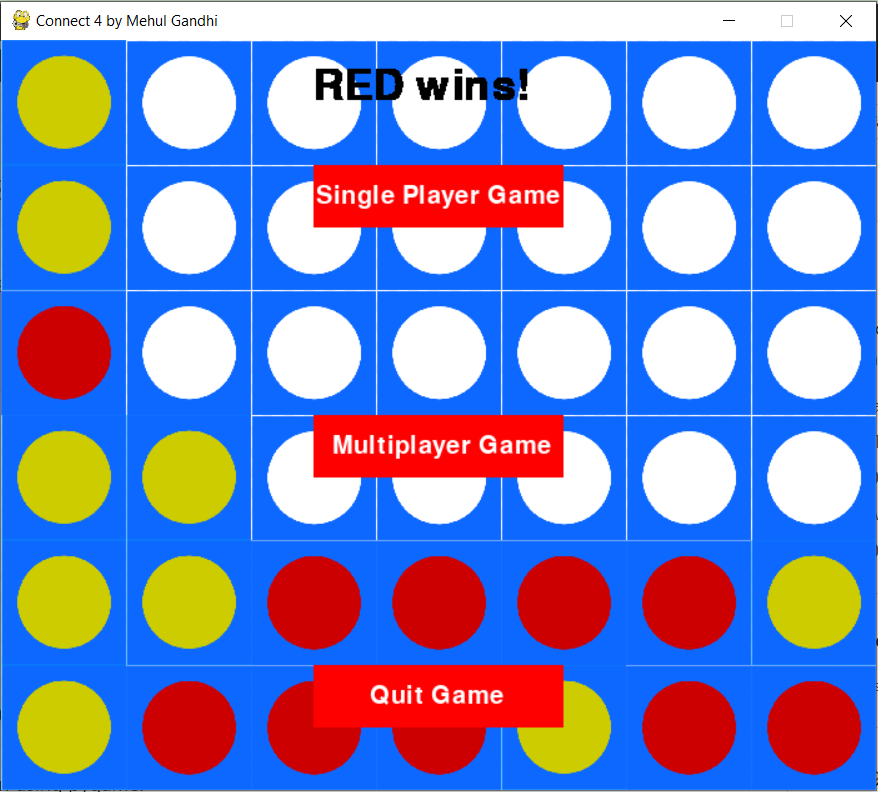
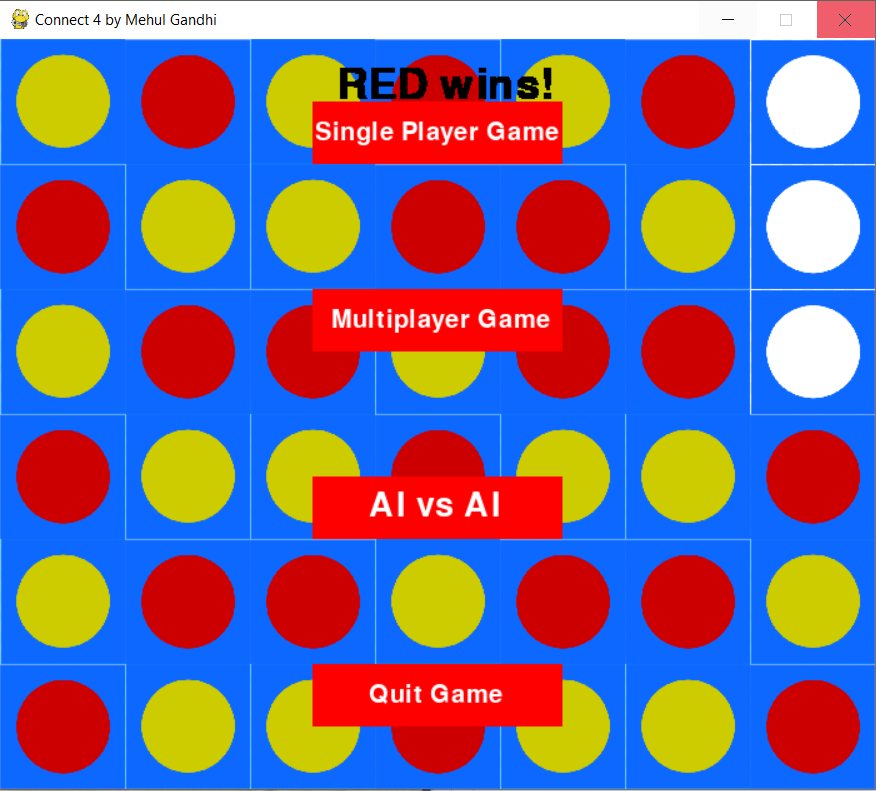
Add files via upload

diff --git a/main.py b/main.py
@@ -34,9 +34,10 @@ def main_menu():
 
         mx, my = pygame.mouse.get_pos()
 
-        button_1 = pygame.Rect(250, 100, 200, 50)  # AI
-        button_2 = pygame.Rect(250, 300, 200, 50)  # Multiplayer
-        button_3 = pygame.Rect(250, 500, 200, 50)  # QUIT
+        button_1 = pygame.Rect(250, 50, 200, 50)  # AI
+        button_2 = pygame.Rect(250, 200, 200, 50)  # Multiplayer
+        button_3 = pygame.Rect(250, 350, 200, 50)  # AI vs AI
+        button_4 = pygame.Rect(250, 500, 200, 50)  # QUIT
 
         if button_1.collidepoint((mx, my)):
             if click:
@@ -45,17 +46,21 @@ def main_menu():
                 break
         elif button_2.collidepoint((mx, my)):
             if click:
-                main()
                 click = False
+                main()
                 break
         elif button_3.collidepoint((mx, my)):
+            if click:
+                click = False
+                ai_against_ai()
+                break
+        elif button_4.collidepoint((mx, my)):
             if click:
                 click = False
                 pygame.quit()
                 break
         else:
             click = False
-
         for event in pygame.event.get():
             if event.type == QUIT:
                 pygame.quit()
@@ -63,10 +68,12 @@ def main_menu():
                 if event.button == 1:
                     click = True
         pygame.draw.rect(SCREEN, (255, 0, 0), button_1)
-        draw_text("Single Player Game", 30, (255, 255, 255), SCREEN, 252, 115)
+        draw_text("Single Player Game", 30, (255, 255, 255), SCREEN, 252, 65)
         pygame.draw.rect(SCREEN, (255, 0, 0), button_2)
-        draw_text("Multiplayer Game", 30, (255, 255, 255), SCREEN, 265, 315)
+        draw_text("Multiplayer Game", 30, (255, 255, 255), SCREEN, 265, 215)
         pygame.draw.rect(SCREEN, (255, 0, 0), button_3)
+        draw_text("AI vs AI", 40, (255, 255, 255), SCREEN, 295, 360)
+        pygame.draw.rect(SCREEN, (255, 0, 0), button_4)
         draw_text("Quit Game", 30, (255, 255, 255), SCREEN, 295, 515)
         pygame.display.update()
         clock.tick(FPS)
@@ -83,14 +90,17 @@ def play_again(player: Color.Colors):
     while True:
         if player == "YELLOW":
             draw_text(f"{player} wins!", 50, BLACK, SCREEN, 225, 20)
+        elif player == "RED":
+            draw_text(f"{player} wins!", 50, BLACK, SCREEN, 270, 20)
         else:
-            draw_text(f"{player} wins!", 50, BLACK, SCREEN, 250, 20)
+            draw_text("DRAW!", 50, BLACK, SCREEN, 225, 20)
 
         mx, my = pygame.mouse.get_pos()
 
-        button_1 = pygame.Rect(250, 100, 200, 50)  # AI
-        button_2 = pygame.Rect(250, 300, 200, 50)  # Multiplayer
-        button_3 = pygame.Rect(250, 500, 200, 50)  # QUIT
+        button_1 = pygame.Rect(250, 50, 200, 50)  # AI
+        button_2 = pygame.Rect(250, 200, 200, 50)  # Multiplayer
+        button_3 = pygame.Rect(250, 350, 200, 50)  # AI vs AI
+        button_4 = pygame.Rect(250, 500, 200, 50)  # QUIT
 
         if button_1.collidepoint((mx, my)):
             if click:
@@ -99,29 +109,34 @@ def play_again(player: Color.Colors):
                 break
         elif button_2.collidepoint((mx, my)):
             if click:
-                main()
                 click = False
+                main()
                 break
         elif button_3.collidepoint((mx, my)):
+            if click:
+                click = False
+                ai_against_ai()
+                break
+        elif button_4.collidepoint((mx, my)):
             if click:
                 click = False
                 pygame.quit()
                 break
         else:
             click = False
-
         for event in pygame.event.get():
             if event.type == QUIT:
                 pygame.quit()
-                break
             if event.type == MOUSEBUTTONDOWN:
                 if event.button == 1:
                     click = True
         pygame.draw.rect(SCREEN, (255, 0, 0), button_1)
-        draw_text("Single Player Game", 30, (255, 255, 255), SCREEN, 252, 115)
+        draw_text("Single Player Game", 30, (255, 255, 255), SCREEN, 252, 65)
         pygame.draw.rect(SCREEN, (255, 0, 0), button_2)
-        draw_text("Multiplayer Game", 30, (255, 255, 255), SCREEN, 265, 315)
+        draw_text("Multiplayer Game", 30, (255, 255, 255), SCREEN, 265, 215)
         pygame.draw.rect(SCREEN, (255, 0, 0), button_3)
+        draw_text("AI vs AI", 40, (255, 255, 255), SCREEN, 295, 360)
+        pygame.draw.rect(SCREEN, (255, 0, 0), button_4)
         draw_text("Quit Game", 30, (255, 255, 255), SCREEN, 295, 515)
         pygame.display.update()
         clock.tick(FPS)
@@ -136,7 +151,7 @@ def draw_text(text: str, size: int, color, surface, x: int, y: int):
     surface.blit(textobj, textrect)
 
 
-def generate_game(screen, ai=False):
+def generate_game(screen):
     """Generates the board game with player1 and player2
     colors decided by a coin toss. """
     coin_toss = random.randint(0, 1)
@@ -148,11 +163,44 @@ def generate_game(screen, ai=False):
     return game, game.player1
 
 
+def ai_against_ai():
+    """A main function where an AI player plays against another AI player."""
+    clock = pygame.time.Clock()
+    run = True
+    game, player = generate_game(SCREEN)
+    clock.tick(FPS)
+    draw_window()
+    screenClass = screenUpdate(SCREEN, game)
+    game.screen = screenClass
+    screenClass.draw_grid()
+    ai_1 = AI.AI(game, game.player1)
+    ai_2 = AI.AI(game, game.player2)
+    while run:
+        pygame.display.update()
+        for event in pygame.event.get():
+            if event.type == pygame.QUIT:
+                run = False
+            else:
+                ai_1_move = ai_1.get_move()
+                game.make_move(ai_1_move[0], ai_1_move[1], game.player1)
+                winner = game.check_win()
+                if winner != Color.Colors.WHITE:
+                    run = False
+                    play_again(winner)
+                ai_2_move = ai_2.get_move()
+                game.make_move(ai_2_move[0], ai_2_move[1], game.player2)
+                winner = game.check_win()
+                if winner != Color.Colors.WHITE:
+                    run = False
+                    play_again(winner)
+    pygame.quit()
+
+
 def main_ai():
     """A main function for a single player game against an AI player."""
     clock = pygame.time.Clock()
     run = True
-    game, player = generate_game(SCREEN, True)
+    game, player = generate_game(SCREEN)
     clock.tick(FPS)
     draw_window()
     screenClass = screenUpdate(SCREEN, game)

diff --git a/AI.py b/AI.py
@@ -29,7 +29,6 @@ class AI:
         board = self.game.deep_copy()
         self.found_move = random.choice(board.legal_moves())
         self.moves[self.found_move] = -100
-        value = -1
         value = \
             self.minimax(board, AI.MAX_DEPTH, True, -AI.INFINITY, AI.INFINITY)
         legal_moves = self.game.legal_moves()
@@ -43,12 +42,12 @@ class AI:
 
     def minimax(self, board: Board, depth: int, maximizing_player: bool, alpha: int, beta: int):
         """Find a move from position BOARD and return its value, recording the
-        move found in self.found_move iff save_move. The move should have
+        move found in self.moves. The move should have
         maximal value or have value > BETA if maximizing_player,
         and minimal value or value < ALPHA if minimizing_player. Searches up
         to DEPTH levels. Searching at level 0 simply returns a static estimate
-        of the board value and does not set found_move. If the game is over on
-        board, does not set found_move. """
+        of the board value and does not add to self.moves. If the game is over on
+        board, does not add to self.moves. """
         win = board.check_win()
         if win == False or win.value != 0 or depth == 0 \
                 or len(board.legal_moves()) == 0:
@@ -125,7 +124,7 @@ class AI:
                 window = col_array[row: row + 4]
                 score += self.evaluate_window(window, player)
 
-        # Positive sloped diagonal score and # Negatively sloped diagonal
+        # Positive sloped diagonal score and Negatively sloped diagonal
         for row in range(6 - 3):
             for col in range(7 - 3):
                 window = [board.board[row + i][col + i] for i in range(4)]
@@ -135,7 +134,8 @@ class AI:
 
         return score
 
-    def evaluate_window(self, window: list, player: Color.Colors):
+    @staticmethod
+    def evaluate_window(window: list, player: Color.Colors):
         """Compares the number of pieces between player PLAYER and
         the opponent and delegates the appropriate score. """
         score = 0

diff --git a/Tile.py b/Tile.py
@@ -2,6 +2,7 @@ import pygame
 import Color
 import os
 import time
+
 """Tiles."""
 WHITE_TILE = pygame.image.load(os.path.join("assets", "white.png"))
 YELLOW_TILE = pygame.image.load(os.path.join("assets", "yellow.png"))
@@ -12,6 +13,9 @@ RED_TILE = pygame.image.load(os.path.join("assets", "red.png"))
 
 class Tile:
     def __init__(self, x, y):
+        """Color is first initialized to white, representing an
+        empty tile. The image is set to white. The x and y coordinates
+        of the tile are set."""
         self.color = Color.Colors.WHITE
         image = self.get_path()
         self.image = image
@@ -24,8 +28,10 @@ class Tile:
         return f"Tile Color: {Color.Colors.tostring(self.color)}"
 
     def __eq__(self, other):
+        """Returns true iff other is a Tile object and
+        the color of self and other are equal. """
         return isinstance(other, Tile) and \
-               self.color == other.color
+            self.color == other.color
 
     def get_path(self):
         """Returns the path of a tile specified
@@ -55,4 +61,3 @@ class Tile:
             self.image = self.get_path()
             time.sleep(0.1)
             self.rect = self.image.get_rect()
-

diff --git a/Board.py b/Board.py
@@ -14,7 +14,7 @@ class Board:
         self.moves = 0
         self.player1 = player1
         self.player2 = player2
-        self.screen = None  # set manually in main,
+        self.screen = None  # set manually in main
 
     def __str__(self):
         """Returns the string representation of the board."""
@@ -56,7 +56,8 @@ class Board:
                 board_copy.board[row][col].rect = self.board[row][col].rect
         return board_copy
 
-    def init_board(self):
+    @staticmethod
+    def init_board():
         """Initializes a game board."""
         width = 7
         height = 6
@@ -81,7 +82,6 @@ class Board:
         """Returns true iff a tile is empty at
         ROW COL. """
         return self.board[row][col].color == Color.Colors.WHITE
-
 
     def legal_moves(self):
         """Returns a list of tuples (row, column) containing
